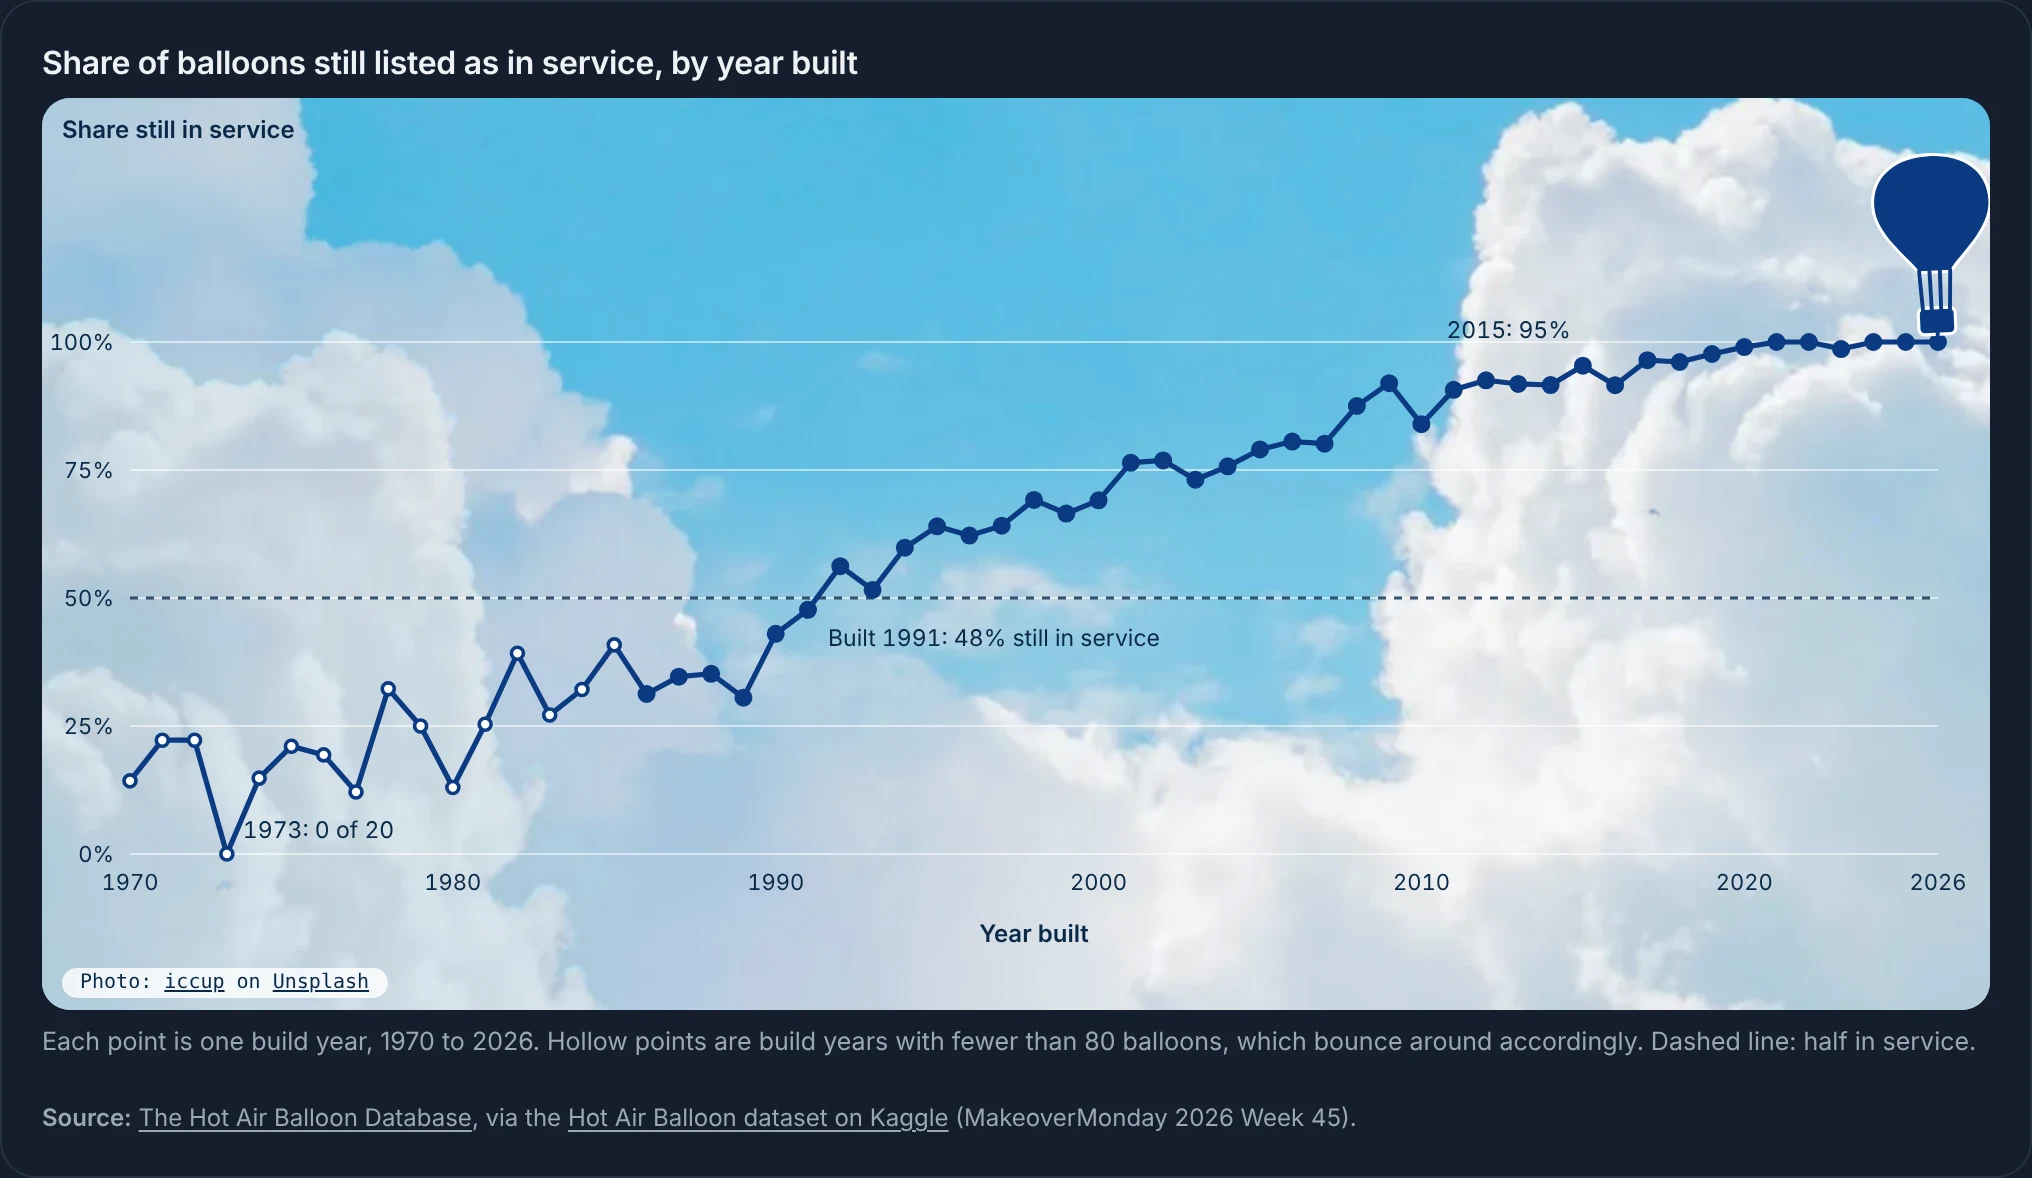
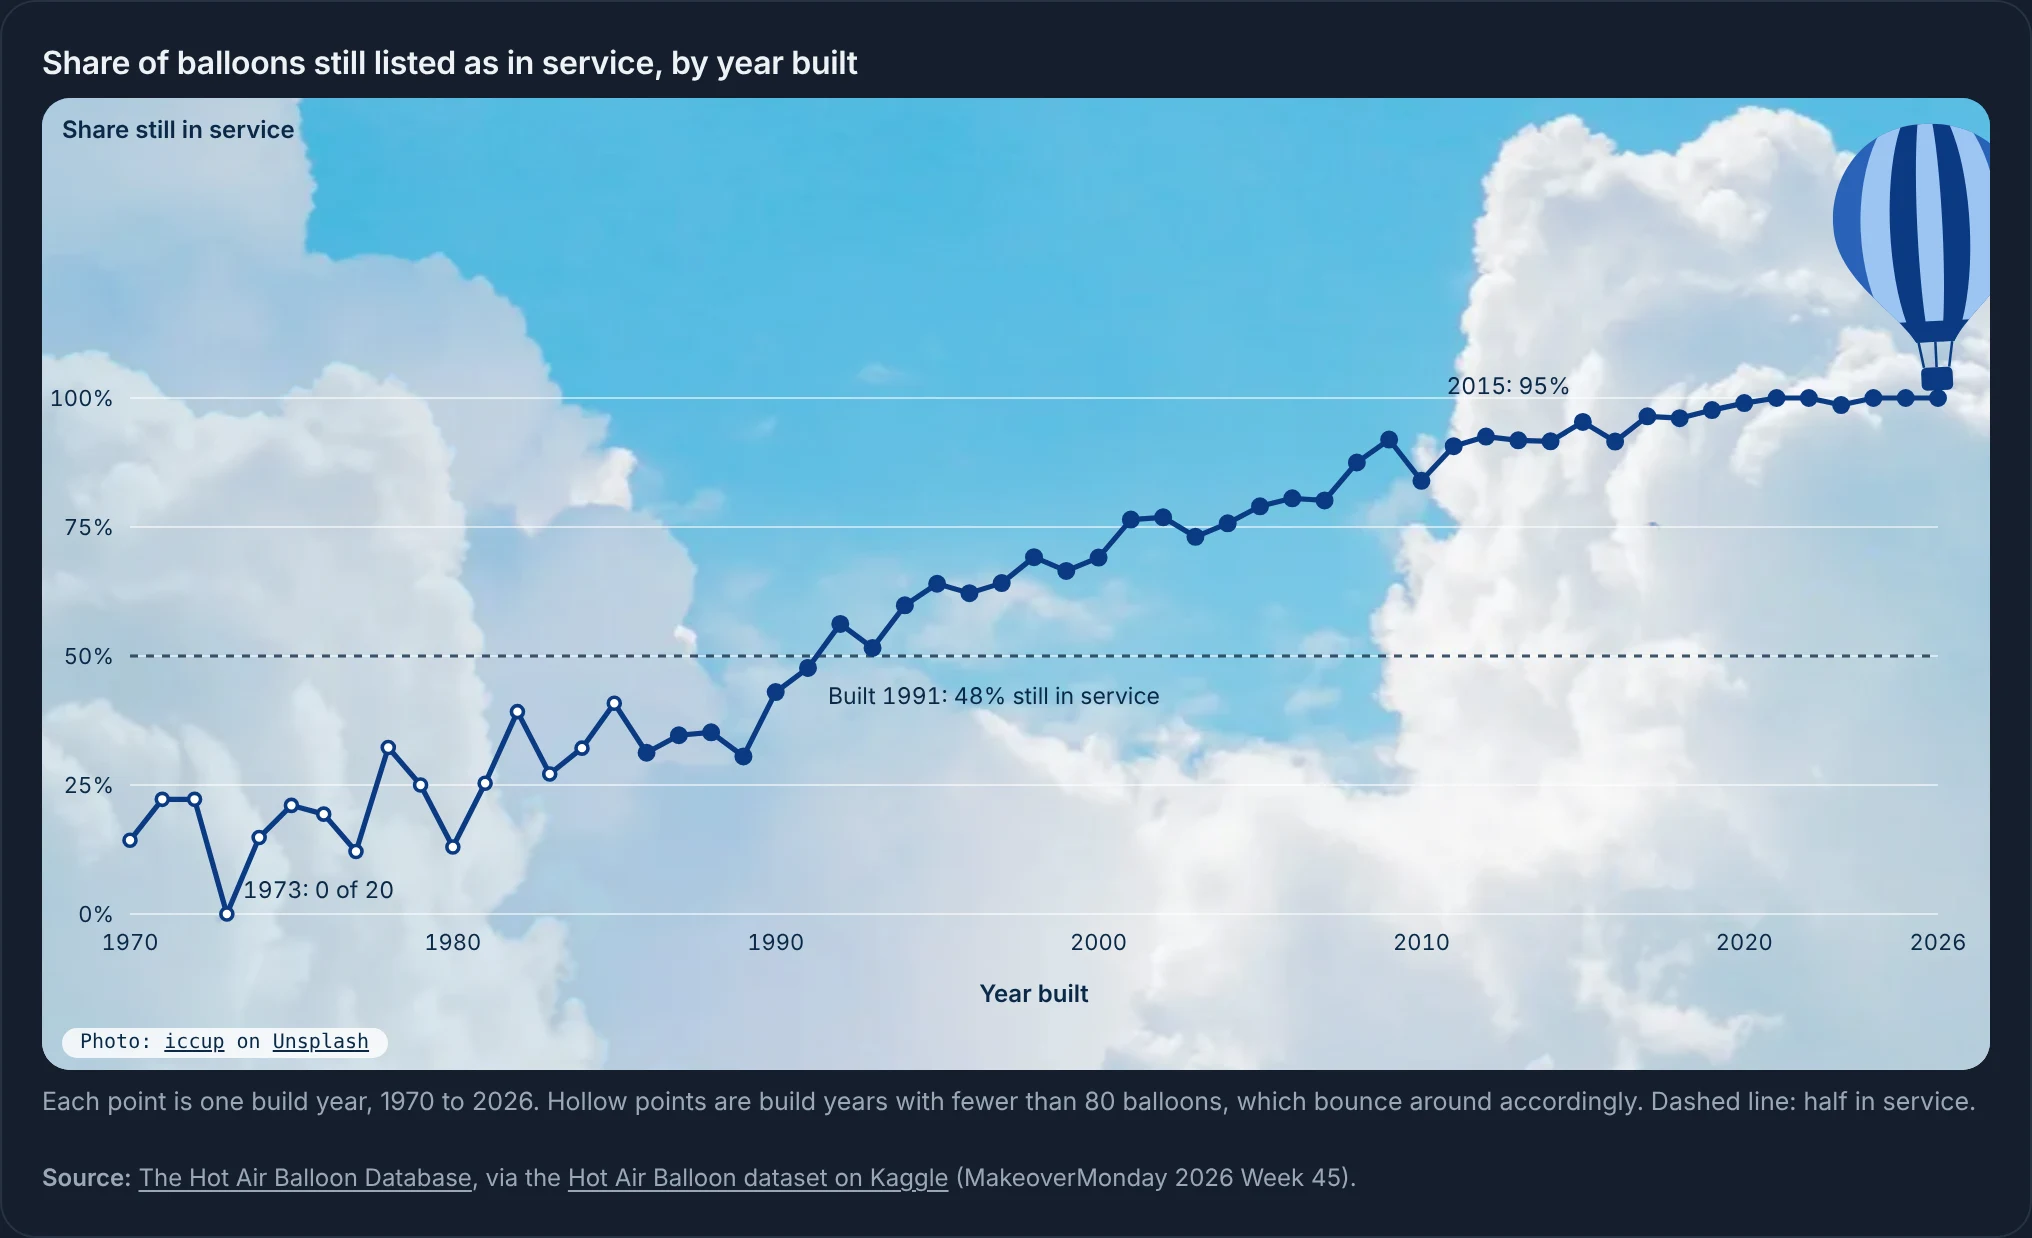
Use the page's balloon illustration in shades of blue as the chart leader
Claude-Session: https://claude.ai/code/session_01UJ1HEyH6uF5w3cQEo98E3x

diff --git a/index.html b/index.html
@@ -173,7 +173,7 @@ else if(y){const ms=MS.filter(x=>x.y===+y.dataset.y);const a=ms[0].i,b=ms[ms.len
 else return;tl();draw()};
 document.getElementById("clr").onclick=()=>{S.a=S.b=null;S.pend=false;tl();draw()};
 tl();draw();
-const FEAT=[{"k": "mn-dist", "u": "mn-turkey/", "t": "How far would the turkeys have to travel if Mexico said no?", "o": "Mexico takes 71% of Minnesota's turkey export dollars from about 1,800 miles away, and 75% of all export dollars go to markets within 2,000 miles. If Mexico bought nothing and the other markets refilled the gap, the average mapped export dollar would travel about 2,500 miles instead of 1,910, and only 14% of all export dollars would stay within 2,000 miles. Distances are straight lines to capitals, and the dollars are estimates from 2023-era data. The pugs prefer their customers within barking distance.", "w": 2080, "h": 1539, "alt": [{"l": "How far?", "k": "mn-dist", "t": "How far would the turkeys have to travel if Mexico said no?", "o": "Mexico takes 71% of Minnesota's turkey export dollars from about 1,800 miles away, and 75% of all export dollars go to markets within 2,000 miles. If Mexico bought nothing and the other markets refilled the gap, the average mapped export dollar would travel about 2,500 miles instead of 1,910, and only 14% of all export dollars would stay within 2,000 miles. Distances are straight lines to capitals, and the dollars are estimates from 2023-era data. The pugs prefer their customers within barking distance."}, {"l": "Who refills?", "k": "mn-dist", "t": "Could anyone else buy Mexico's share of the turkeys?", "o": "Mexico takes an estimated $73.8 million of Minnesota's $104 million in turkey exports. To refill that gap, every other market would need to buy about 3.5 times as much (3.3 to 3.6 once rounding is allowed for), and the new customers would be farther away. It is arithmetic, not a forecast, on data about three years old. The pugs are not sure the neighbors have room in the freezer."}]}, {"k": "hb-surv", "u": "hot-air-balloons/", "t": "How long before a toy ends up in the closet?", "o": "A hot air balloon built in the early 1990s is a coin flip: 52% of the 1,052 built from 1990 to 1994 are still listed as in service, with a 95% range of 49% to 55%. From the 1970s it is 20%; from the 2010s, 93%. There is no cliff, just a steady climb, though this is a snapshot of the archive and not a true survival curve, so old balloons probably look more durable than they were. Watch the balloon lead the line up through the build years. The pug's toys last four minutes.", "w": 2032, "h": 1178}, {"k": "pz-ai", "u": "pisa-2025/", "t": "Did the chatbot do the homework?", "o": "Weekly AI use among 15-year-olds runs from 26% in Ireland to 69% in Viet Nam, and it shows no detectable link with a country’s math score: the rank correlation is −0.05, and it is +0.03 against the change since 2022. No paw prints on the scoreboard, though the pugs would still like a word with the robot.", "w": 1772, "h": 1132}, {"k": "mc-trend", "u": "more-cowbell/", "t": "When did the cowbell have rizz?", "o": "In the 1970s: 230 songs, 37% of every dated song on the list, peaking at 38 in 1975. After 2003 the list nearly runs dry, 13 songs in 22 years, which says more about the list than about cowbell. The pugs have a fever, and you know the prescription.", "w": 1800, "h": 1300}, {"k": "cc-map", "u": "census-century/", "t": "How far can the middle of a country wander?", "o": "Between 1790 and 1900 the estimated center of the U.S. population moved about 500 miles west, from near Baltimore to southern Indiana, averaging 67 feet a day. It was no steady stroll: 120 feet a day in the 1850s, barely 19 in the 1890s. Mostly a pug pack's pace.", "w": 1936, "h": 1306}, {"k": "bb-stops", "u": "bigs-backyard/", "t": "Why does everyone get tired at exactly 100 miles?", "o": "Across four championships, about 8% of the runners still going quit at exactly 24 yards, the 100-mile mark. In 2026 one team, Spain, stopped together there, which pushed the pile to 60. Without it, the pile is still twice the yards around it. Round numbers are a magnet, and teams make them stronger. The pugs call it a day at the mailbox.", "w": 1936, "h": 1522}, {"k": "bw-animals", "u": "bears-will-be-boys/", "t": "Where are all the girl frogs?", "o": "In these picture books, 16 of 17 frogs are he/him, which sounds damning. But the whole genre runs about two boys to one girl, and with so few frogs, luck is a fair defense. Five animals do stray past the luck line, birds and cats leaning girl and frogs and foxes leaning boy, though none is a sure outlier. The pugs are still watching the casting department.", "w": 1936, "h": 1360}, {"k": "tn-offseason", "u": "tourism-nights/", "t": "Cities stay busy after summer. Which regions jump at Christmas?", "o": "Only 41 of 237 EU regions get an even year’s share of nights in October to December, and the EU total, 18.1%, is pulled down by huge summer coasts. Cities stay level from October to December. Alsace, Northern and Eastern Finland and South-West Oltenia jump two to four times in December. The pugs follow the Christmas markets.", "w": 1832, "h": 1072}, {"k": "uf-rate", "u": "ufo-sightings/", "t": "Which states really keep their eyes on the sky, and which are just small?", "o": "Florida, California and Texas send the most UFO reports, but they also have the most people. Per resident, New Mexico leads with 11.8 reports per million against 4.0 nationally. Of 51 states, 19 fall outside the luck funnel, where a weighted coin dealing out the same 1,317 reports flags only about 3.5. California (3.0) and Texas (2.8) sit below the national rate. The pugs bark at the sky in every state, for the record.", "w": 1936, "h": 1172}, {"k": "cf-scatter", "u": "cfb-budgets/", "t": "Can you buy your way into the Top 25?", "o": "Not reliably. All ten of the biggest roster budgets are in the AP Top 25, but seven of the 25 biggest are not: Florida, South Carolina, Auburn, Nebraska, Clemson, Wisconsin and UCLA, together about $223M. Oregon has the 2nd-biggest budget and ranks 21st, while Houston, Iowa and Utah made the poll on the three smallest budgets of any ranked team. Pick your team on the page to follow its line. The pugs’ vote can be bought with treats.", "w": 1800, "h": 1852}];
+const FEAT=[{"k": "mn-dist", "u": "mn-turkey/", "t": "How far would the turkeys have to travel if Mexico said no?", "o": "Mexico takes 71% of Minnesota's turkey export dollars from about 1,800 miles away, and 75% of all export dollars go to markets within 2,000 miles. If Mexico bought nothing and the other markets refilled the gap, the average mapped export dollar would travel about 2,500 miles instead of 1,910, and only 14% of all export dollars would stay within 2,000 miles. Distances are straight lines to capitals, and the dollars are estimates from 2023-era data. The pugs prefer their customers within barking distance.", "w": 2080, "h": 1539, "alt": [{"l": "How far?", "k": "mn-dist", "t": "How far would the turkeys have to travel if Mexico said no?", "o": "Mexico takes 71% of Minnesota's turkey export dollars from about 1,800 miles away, and 75% of all export dollars go to markets within 2,000 miles. If Mexico bought nothing and the other markets refilled the gap, the average mapped export dollar would travel about 2,500 miles instead of 1,910, and only 14% of all export dollars would stay within 2,000 miles. Distances are straight lines to capitals, and the dollars are estimates from 2023-era data. The pugs prefer their customers within barking distance."}, {"l": "Who refills?", "k": "mn-dist", "t": "Could anyone else buy Mexico's share of the turkeys?", "o": "Mexico takes an estimated $73.8 million of Minnesota's $104 million in turkey exports. To refill that gap, every other market would need to buy about 3.5 times as much (3.3 to 3.6 once rounding is allowed for), and the new customers would be farther away. It is arithmetic, not a forecast, on data about three years old. The pugs are not sure the neighbors have room in the freezer."}]}, {"k": "hb-surv", "u": "hot-air-balloons/", "t": "How long before a toy ends up in the closet?", "o": "A hot air balloon built in the early 1990s is a coin flip: 52% of the 1,052 built from 1990 to 1994 are still listed as in service, with a 95% range of 49% to 55%. From the 1970s it is 20%; from the 2010s, 93%. There is no cliff, just a steady climb, though this is a snapshot of the archive and not a true survival curve, so old balloons probably look more durable than they were. Watch the balloon lead the line up through the build years. The pug's toys last four minutes.", "w": 2032, "h": 1238}, {"k": "pz-ai", "u": "pisa-2025/", "t": "Did the chatbot do the homework?", "o": "Weekly AI use among 15-year-olds runs from 26% in Ireland to 69% in Viet Nam, and it shows no detectable link with a country’s math score: the rank correlation is −0.05, and it is +0.03 against the change since 2022. No paw prints on the scoreboard, though the pugs would still like a word with the robot.", "w": 1772, "h": 1132}, {"k": "mc-trend", "u": "more-cowbell/", "t": "When did the cowbell have rizz?", "o": "In the 1970s: 230 songs, 37% of every dated song on the list, peaking at 38 in 1975. After 2003 the list nearly runs dry, 13 songs in 22 years, which says more about the list than about cowbell. The pugs have a fever, and you know the prescription.", "w": 1800, "h": 1300}, {"k": "cc-map", "u": "census-century/", "t": "How far can the middle of a country wander?", "o": "Between 1790 and 1900 the estimated center of the U.S. population moved about 500 miles west, from near Baltimore to southern Indiana, averaging 67 feet a day. It was no steady stroll: 120 feet a day in the 1850s, barely 19 in the 1890s. Mostly a pug pack's pace.", "w": 1936, "h": 1306}, {"k": "bb-stops", "u": "bigs-backyard/", "t": "Why does everyone get tired at exactly 100 miles?", "o": "Across four championships, about 8% of the runners still going quit at exactly 24 yards, the 100-mile mark. In 2026 one team, Spain, stopped together there, which pushed the pile to 60. Without it, the pile is still twice the yards around it. Round numbers are a magnet, and teams make them stronger. The pugs call it a day at the mailbox.", "w": 1936, "h": 1522}, {"k": "bw-animals", "u": "bears-will-be-boys/", "t": "Where are all the girl frogs?", "o": "In these picture books, 16 of 17 frogs are he/him, which sounds damning. But the whole genre runs about two boys to one girl, and with so few frogs, luck is a fair defense. Five animals do stray past the luck line, birds and cats leaning girl and frogs and foxes leaning boy, though none is a sure outlier. The pugs are still watching the casting department.", "w": 1936, "h": 1360}, {"k": "tn-offseason", "u": "tourism-nights/", "t": "Cities stay busy after summer. Which regions jump at Christmas?", "o": "Only 41 of 237 EU regions get an even year’s share of nights in October to December, and the EU total, 18.1%, is pulled down by huge summer coasts. Cities stay level from October to December. Alsace, Northern and Eastern Finland and South-West Oltenia jump two to four times in December. The pugs follow the Christmas markets.", "w": 1832, "h": 1072}, {"k": "uf-rate", "u": "ufo-sightings/", "t": "Which states really keep their eyes on the sky, and which are just small?", "o": "Florida, California and Texas send the most UFO reports, but they also have the most people. Per resident, New Mexico leads with 11.8 reports per million against 4.0 nationally. Of 51 states, 19 fall outside the luck funnel, where a weighted coin dealing out the same 1,317 reports flags only about 3.5. California (3.0) and Texas (2.8) sit below the national rate. The pugs bark at the sky in every state, for the record.", "w": 1936, "h": 1172}, {"k": "cf-scatter", "u": "cfb-budgets/", "t": "Can you buy your way into the Top 25?", "o": "Not reliably. All ten of the biggest roster budgets are in the AP Top 25, but seven of the 25 biggest are not: Florida, South Carolina, Auburn, Nebraska, Clemson, Wisconsin and UCLA, together about $223M. Oregon has the 2nd-biggest budget and ranks 21st, while Houston, Iowa and Utah made the poll on the three smallest budgets of any ranked team. Pick your team on the page to follow its line. The pugs’ vote can be bought with treats.", "w": 1800, "h": 1852}];
 (function potd(){const now=new Date(),day=Math.floor(Date.UTC(now.getFullYear(),now.getMonth(),now.getDate())/864e5),f=FEAT[day%FEAT.length],p=P.find(x=>x.u===f.u);if(!p)return;
 const q="q"+(Math.floor(p.mo/3)+1),el=document.getElementById("potd");el.className="potd-body "+q;
 document.getElementById("potd-date").textContent=now.toLocaleDateString("en-US",{weekday:"long",month:"long",day:"numeric",year:"numeric"});

diff --git a/hot-air-balloons/index.html b/hot-air-balloons/index.html
@@ -363,15 +363,13 @@ function comp(){const rows=D.comp,rh=30,{svg,w,h,hit,small}=stage("c-comp",rows.
 const SV={t0:null,vis:false,raf:0,frame:null,sway:null,reduced:matchMedia("(prefers-reduced-motion: reduce)").matches,DUR:16000};
 const easeIO=t=>.5-.5*Math.cos(Math.PI*t);
 function skyBalloon(parent,s){
-  const INK="#0b3a82",g=el("g",{"pointer-events":"none"},parent),k=el("g",{transform:`scale(${s})`,fill:INK,stroke:"#fff","stroke-width":2.4,"paint-order":"stroke","stroke-linejoin":"round","stroke-linecap":"round"},g);
-  el("path",{d:"M-6,-27 C-10,-33 -22,-42 -22,-53 C-22,-65 -12,-71 0,-71 C12,-71 22,-65 22,-53 C22,-42 10,-33 6,-27 Z"},k);
-  el("rect",{x:-6.5,y:-12,width:13,height:9,rx:1.6},k);
-  [[-5.2,-12,-6,-27],[-1.8,-12,-2,-27],[1.8,-12,2,-27],[5.2,-12,6,-27]].forEach(q=>el("line",{x1:q[0],y1:q[1],x2:q[2],y2:q[3],stroke:INK,"stroke-width":1.5},k));
-  el("line",{x1:0,y1:-3,x2:0,y2:0,stroke:INK,"stroke-width":1.5},k);
-  return{g,flame:el("g",{},k)}}
+  const g=el("g",{"pointer-events":"none"},parent),k=el("g",{transform:`translate(0,${-(77*s+3).toFixed(1)}) scale(${s})`},g);
+  k.innerHTML=balloon(["#2a62b8","#9cc4f2","#0b3a82","#0b3a82"]).replace(/var\(--rope\)/g,"#0b3a82").replace(/var\(--basket\)/g,"#0b3a82");
+  el("line",{x1:0,y1:-3,x2:0,y2:0,stroke:"#0b3a82","stroke-width":1.4},g);
+  return{g,flame:el("g",{},g)}}
 
-function surv(){const d=D.surv,{svg,w,h,hit,small}=stage("c-surv",456,"Animated line chart: share of balloons still in service rises from about 15 percent for 1970s builds to nearly 100 percent for 2020s builds, crossing one half around 1991");
-  const L=44,R=26,T=122,B=78,x=lin(1970,2026,L,w-R),y=lin(0,1,h-B,T),INK="#0b3a82";
+function surv(){const d=D.surv,{svg,w,h,hit,small}=stage("c-surv",486,"Animated line chart: share of balloons still in service rises from about 15 percent for 1970s builds to nearly 100 percent for 2020s builds, crossing one half around 1991");
+  const L=44,R=26,T=150,B=78,x=lin(1970,2026,L,w-R),y=lin(0,1,h-B,T),INK="#0b3a82";
   txt(svg,"Share still in service",{x:10,y:20,class:"axt"});txt(svg,"Year built",{x:(L+w-R)/2,y:h-B+44,"text-anchor":"middle",class:"axt"});
   [0,.25,.5,.75,1].forEach(t=>{el("line",{x1:L,x2:w-R,y1:y(t),y2:y(t),class:"gl"},svg);txt(svg,pct(t),{x:L-8,y:y(t)+4,"text-anchor":"end",class:"tick"})});
   (small?[1970,1990,2010,2026]:[1970,1980,1990,2000,2010,2020,2026]).forEach(t=>txt(svg,t,{x:x(t),y:h-B+18,"text-anchor":"middle",class:"tick"}));
@@ -382,7 +380,7 @@ function surv(){const d=D.surv,{svg,w,h,hit,small}=stage("c-surv",456,"Animated 
   const dots=d.map(p=>el("circle",{cx:x(p.y),cy:y(p.in/p.n),r:p.n<80?3:4,fill:p.n<80?"#fff":INK,stroke:INK,"stroke-width":p.n<80?1.8:1,class:"sd"},svg));
   const labs=[];const lab=(yr,s,dx,dy,a)=>{const p=d.find(q=>q.y===yr);const t=txt(svg,s.replace("%",pct(p.in/p.n)),{x:x(yr)+dx,y:y(p.in/p.n)+dy,"text-anchor":a,class:"lab"});labs.push([x(yr),t])};
   lab(1991,small?"1991: %":"Built 1991: % still in service",10,18,"start");lab(1973,"1973: 0 of 20",8,-8,"start");lab(2015,"2015: %",-6,-14,"end");
-  const bl=skyBalloon(svg,small?.95:1.3);
+  const bl=skyBalloon(svg,small?.78:1.05);
   const cur=el("line",{y1:T,y2:h-B,stroke:"rgba(11,41,71,.55)","stroke-width":1,visibility:"hidden"},svg);
   const r=el("rect",{x:L,y:T,width:w-L-R,height:h-T-B,class:"hit"},svg);
   hit(r,e=>{const bx=svg.getBoundingClientRect(),yr=Math.round(1970+(e.clientX-bx.left-L)/(w-L-R)*56),p=d.reduce((a,b)=>Math.abs(b.y-yr)<Math.abs(a.y-yr)?b:a);
